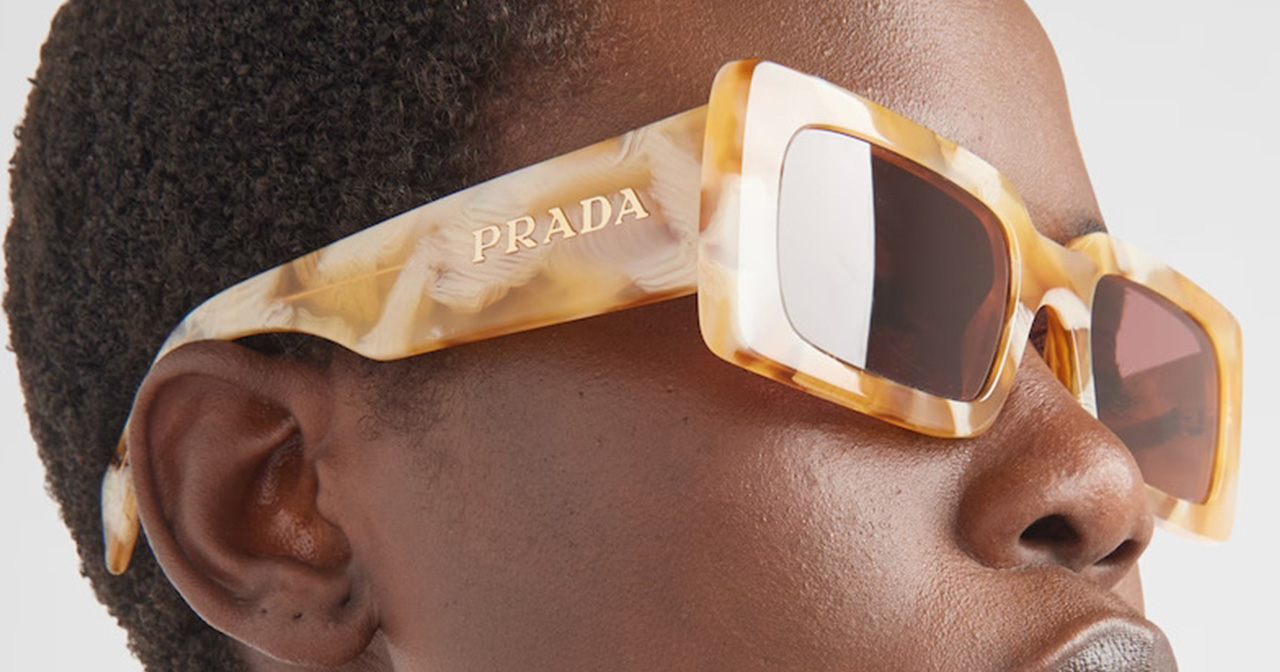
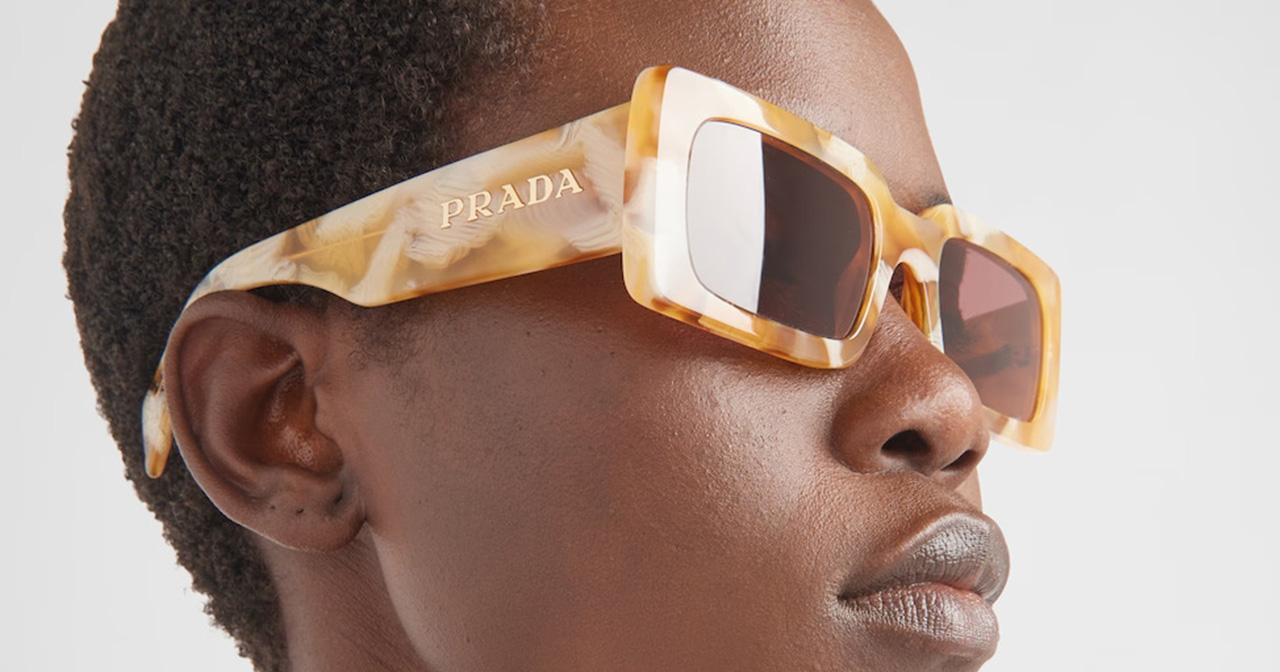
homefinal

diff --git a/index.html b/index.html
@@ -17,6 +17,8 @@
         integrity="sha384-T3c6CoIi6uLrA9TneNEoa7RxnatzjcDSCmG1MXxSR1GAsXEV/Dwwykc2MPK8M2HN" crossorigin="anonymous">
 
     <link rel="stylesheet" href="css\styleindex.css" type="text/css">
+
+    <script src="https://kit.fontawesome.com/a4c92e0f59.js" crossorigin="anonymous"></script>
 </head>
 
 <body>
@@ -37,7 +39,7 @@
                         <h1>GLOWY OUTLET</h1>
                         <h2>ÚLTIMAS NOVEDADES</h2>
                         <p>HASTA UN 50% DTO EN TUS GAFAS <strong>DIOR</strong></p>
-                        <a href="#news">
+                        <a href="#news.html">
                             <div id="direct">
                                 <p>¡NO TE PIERDAS NADA!</p>
                             </div>
@@ -50,7 +52,7 @@
                         <h1>GLOWY OUTLET</h1>
                         <h2>ÚLTIMAS NOVEDADES</h2>
                         <p>HASTA UN 50% DTO EN TUS GAFAS <strong>GUCCI</strong></p>
-                        <a href="#news">
+                        <a href="#news.html">
                             <div id="direct">
                                 <p>¡NO TE PIERDAS NADA!</p>
                             </div>
@@ -58,12 +60,12 @@
                     </div>
                 </div>
                 <div class="carousel-item">
-                    <img src="img/headerprada1.jpg" class="d-block w-100" alt="novedades prada">
+                    <img src="img/headerprada.jpg" class="d-block w-100" alt="novedades prada">
                     <div class="carousel-caption d-none d-md-block">
                         <h1>GLOWY OUTLET</h1>
                         <h2>ÚLTIMAS NOVEDADES</h2>
                         <p>HASTA UN 50% DTO EN TUS GAFAS <strong>PRADA</strong></p>
-                        <a href="#news">
+                        <a href="#news.html">
                             <div id="direct">
                                 <p>¡NO TE PIERDAS NADA!</p>
                             </div>
@@ -107,7 +109,7 @@
                     </ul>
                 </li>
                 <li>
-                    <a href="#news">SUSCRÍBETE</a>
+                    <a href="#news.html">SUSCRÍBETE</a>
                 </li>
                 <li>
                     <i class="fa-solid fa-xmark"></i>
@@ -119,13 +121,14 @@
         <section id="about">
             <h3>SOBRE NOSOTRAS</h3>
             <h4><strong>BIENVENIDA A GLOWY</strong> </h4>
-            <div id="container">
+            <div class="container">
                 <img src="img/sobrenosotros.png" alt="about glowy">
                 <p>Un outlet donde podrás conseguir las mejores gafas al mejor precio.
                     <br> <br>
-                    En Glowy creemos que las gafas son una parte esencial de tu personalidad por lo que tenemos como misión
+                    En Glowy creemos que las gafas son una parte esencial de tu personalidad por lo que tenemos como
+                    misión
                     ofrecer gafas de sol conocidas a un precio asequible.
-                    <br> <br> 
+                    <br> <br>
                     Somos una marca que entiende que la moda no tiene que ser costosa y estamos aquí para demostrarlo.
                     <br> <br>
                     Glowy surgió en 2016 cuando tres amigas amantes de la moda y coleccionistas de gafas se
@@ -143,7 +146,33 @@
         </section>
 
         <section id="brand">
-
+            <h3>NUESTRAS MARCAS</h3>
+            <div class="post">
+                <div class="card" style="width: 18rem;">
+                    <img src="img/carddior.jpg" class="card-img-top" alt="marca dior">
+                    <div class="card-body">
+                        <h5 class="card-title">DIOR</h5>
+                        <p class="card-text">Dior es una renombrada casa de moda francesa, famosa por su elegancia atemporal convirtiéndolo en un referente.</p>
+                        <a href="#dior.html" class="btn btn-primary">IR A PRODUCTOS</a>
+                    </div>
+                </div>
+                <div class="card" style="width: 18rem;">
+                    <img src="img/cardgucci.jpg" class="card-img-top" alt="marca gucci">
+                    <div class="card-body">
+                        <h5 class="card-title">GUCCI</h5>
+                        <p class="card-text">Gucci es una icónica marca de moda italiana, conocida por su lujo con su sofisticada fusión de diseño atrevido y calidad artesanal.</p>
+                        <a href="#gucci.html" class="btn btn-primary">IR A PRODUCTOS</a>
+                    </div>
+                </div>
+                <div class="card" style="width: 18rem;">
+                    <img src="img/cardprada.jpg" class="card-img-top" alt="marca dior">
+                    <div class="card-body">
+                        <h5 class="card-title">PRADA</h5>
+                        <p class="card-text">Prada es una influyente marca italiana de estilo vanguardista con un enfoque en la innovación dejando una huella en la industria.</p>
+                        <a href="#prada.html" class="btn btn-primary">IR A PRODUCTOS</a>
+                    </div>
+                </div>
+            </div>
         </section>
     </main>
 

diff --git a/css/styleindex.css b/css/styleindex.css
@@ -24,10 +24,13 @@ h3 {
 
 h1 {
     font-size: 5em;
+    font-family: var(--font-secundary-tah);
+    text-shadow: #0000007e 3px 3px 3px;
 }
 
 h2 {
     font-size: 3.5em;
+    text-shadow: #0000007e 3px 3px 3px;
 }
 
 p {
@@ -36,22 +39,14 @@ p {
 
 
 /* CARRUSEL */
-#carouselExampleCaptions {
-    width: 100%;
-    height: 100vh;
-    background-size: cover;
-    background-position: center;
-    background-attachment: fixed !important;
-}
-
 .carousel-inner img {
-    max-width: 100%;
     height: 100vh;
-    vertical-align: middle;
+    object-fit: cover;
 }
 
 #carouselExampleCaptions p {
     font-size: 2em;
+    text-shadow: #0000007e 3px 3px 3px;
 }
 
 #direct>p {
@@ -66,6 +61,8 @@ p {
 }
 
 
+
+
 /* BOTÓN */
 #direct {
     width: 25%;
@@ -75,6 +72,10 @@ p {
     background-color: #f344137e;
     text-align: center;
     border: 0.1em var(--secondary-color) solid;
+}
+
+#direct>p {
+    text-shadow: none;
 }
 
 #direct>p:hover {
@@ -178,19 +179,51 @@ h3 {
 
 
 /* ABOUT */
-#container {
+.container {
+    padding: 0;
     display: flex;
     flex-direction: row-reverse;
     align-items: center;
 }
 
-#container>p {
+.container>p {
     padding-right: 4%;
 }
 
 #about>p {
     padding-top: 3%;
 }
+
+
+/* MARCAS */
+.post {
+    padding-top: 2%;
+    display: flex;
+    justify-content: space-between;
+}
+
+h5 {
+    font-size: 1.5em;
+    font-family: var(--font-secundary-tah);
+}
+
+.card-body {
+    background-color: var(--tertiary-color);
+}
+
+.card-body>a {
+    margin-top: 5%;
+    border: var(--primary-color);
+    background-color: var(--primary-color);
+    display: flex;
+    flex-direction: column;
+}
+
+.card-body>a:hover {
+    background-color: var(--quaternary-color);
+    color: var(--secondary-color);
+}
+
 
 
 
@@ -209,6 +242,7 @@ h3 {
 footer {
     background-color: #F34213;
     color: var(--tertiary-color);
+    margin-top: 8%;
     padding: 3%;
     display: flex;
     flex-direction: column;
@@ -263,6 +297,7 @@ footer>p {
 }
 
 .socialmedia .social a {
+    font-size: 2em;
     color: inherit;
     text-decoration: none;
 }

diff --git a/gucci.html b/gucci.html
@@ -5,7 +5,7 @@
     <meta charset="UTF-8">
     <meta http-equiv="X-UA-Compatible" content="IE=edge">
     <meta name="viewport" content="width=device-width, initial-scale=1.0">
-    <title>DIOR</title>
+    <title>GUCCI</title>
 
     <link href="img/logoglowy.png" rel="icon" type="image/png">
 
